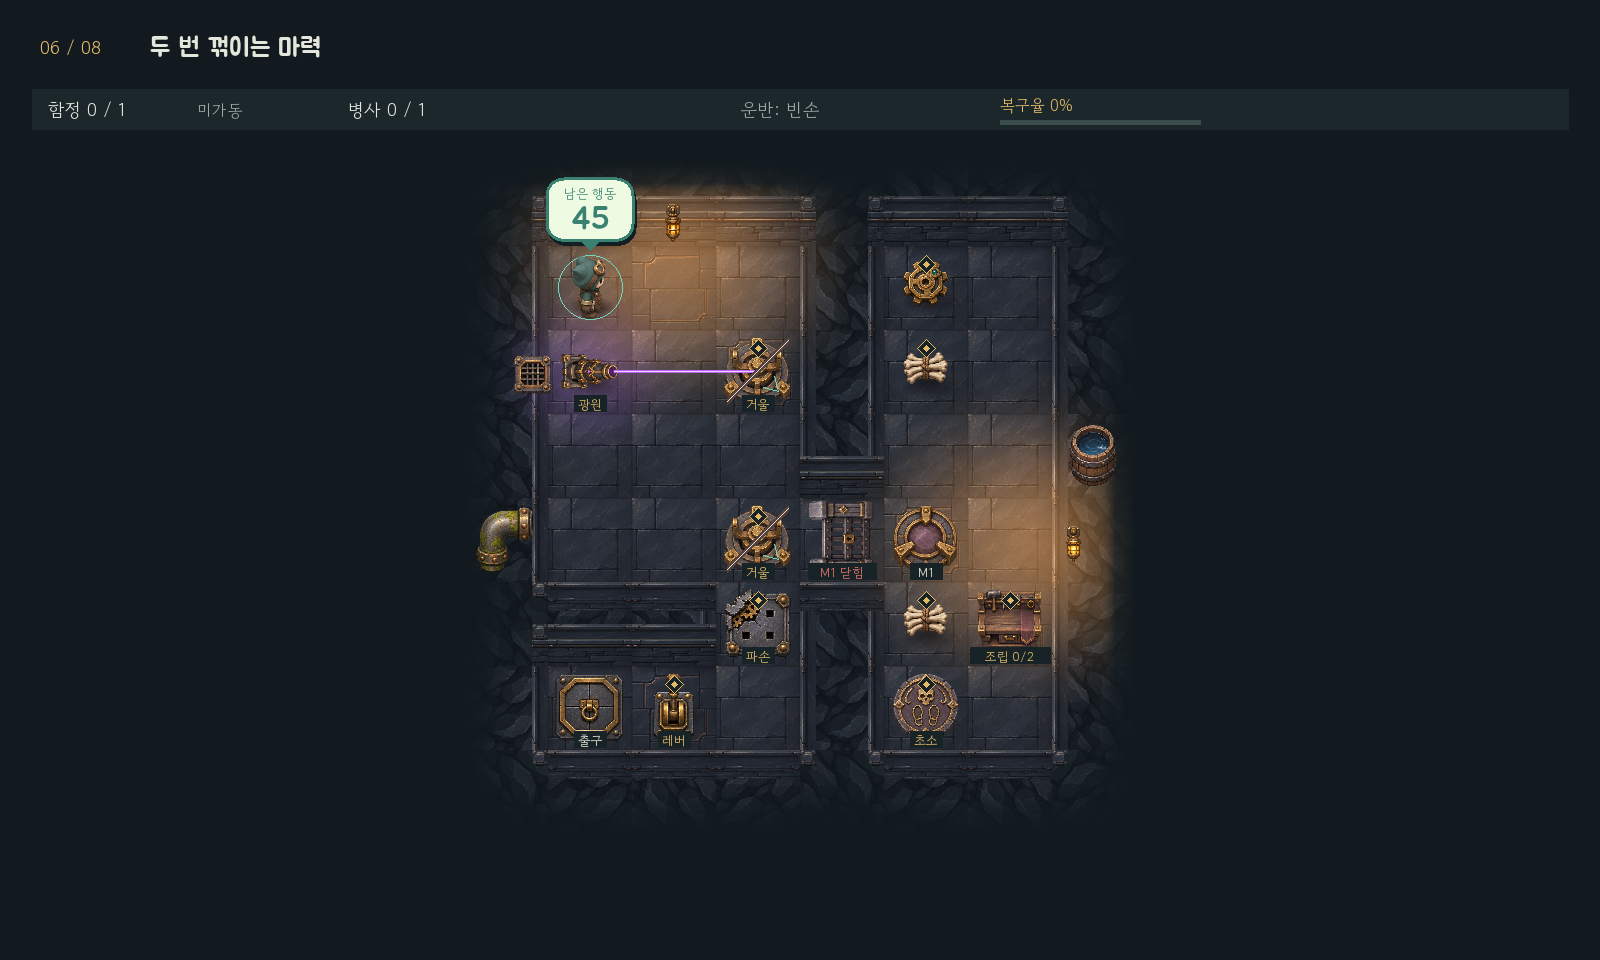
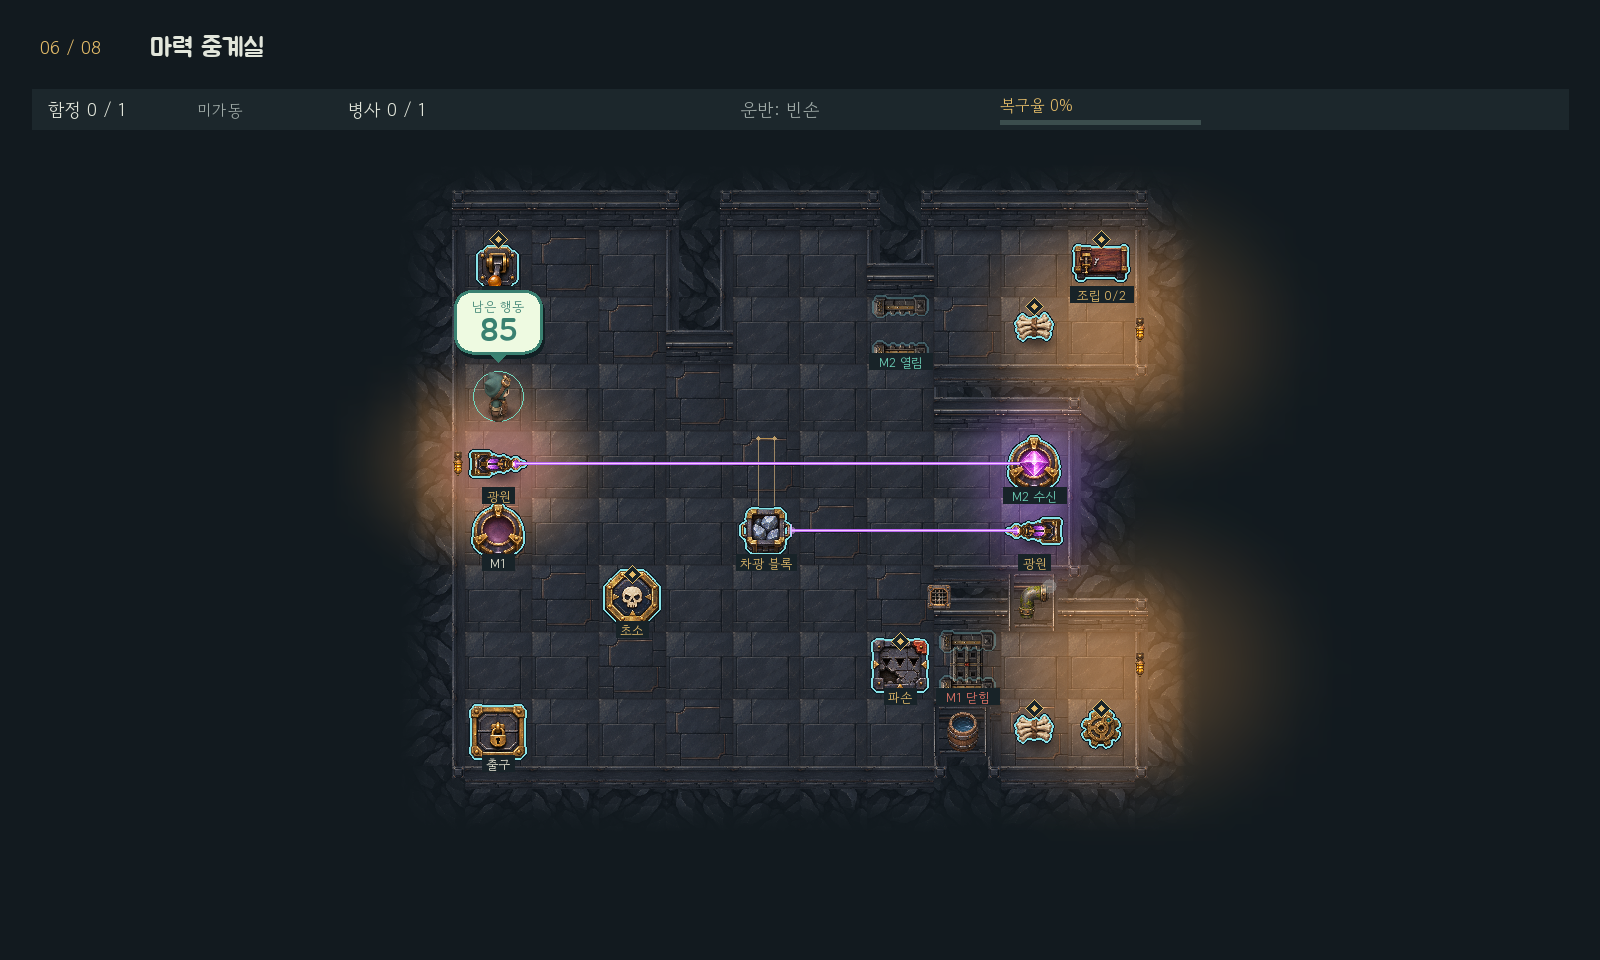
docs: 6번 방 배치도와 플레이 화면 갱신

Changed region(s): [[0.2188, 0.1875, 0.8125, 0.8438], [0.0938, 0.0312, 0.2188, 0.0625]]

diff --git a/tools/render_room_plans.py b/tools/render_room_plans.py
@@ -14,7 +14,7 @@ NOTES = (
     "북·남 서가의 재료를 꺼내고 두 입구의 함정을 고친다. 북쪽 안의 레버도 두 함정을 가동하지만, 그 자리에서 가동하면 돌아올 통로를 잃는다. 출구 근처 레버로 봉쇄할 길을 살펴야 한다.",
     "간수 통로의 잔해를 P1에 밀어 첫 감방을 연다. 그 안의 뼈를 감방 입구 앞 P2에 놓고, 두 번째 뼈는 서쪽 벽 앞 P3에 둔다. 안쪽 무기고에 가려면 P2와 P3을 함께 열어 둬야 한다. 부품을 꺼낸 뒤 남쪽에서 병사를 조립해 동쪽 끝 초소를 채우고, 하단 복도에서 레버를 당긴 뒤 출구로 나간다.",
     "이동 거울을 방향키로 수신기 열에 맞추고 옆 칸에서 아래로 돌린다. 광로를 막는 잔해를 옆으로 밀어낸다. C1 투입구로 뼈를 보내 C1 배출구의 발판으로 남쪽 집수실을 개방한다. 집수실의 뼈를 빼낸 뒤 발판의 뼈를 회수한다.",
-    "중앙의 차광 블록이 좌우 두 칸을 오간다. 오른쪽 광로를 비우면 남쪽 M1 보관실에서 부품과 뼈를 꺼낼 수 있다. 뼈를 넓은 중앙 홀에 잠시 내려놓고 반대편에서 블록을 밀어 북쪽 M2 작업실을 연다. 북쪽 작업대에서 두 뼈를 조립해 서쪽 초소를 채우고 남쪽 통로의 함정을 가동한다.",
+    "서쪽과 동쪽에서 두 줄의 빛이 중앙 홀을 가로지른다. 중앙 레일에서 블록을 위로 밀면 아래쪽 광로가 열려 남동쪽 M1 보관실에 들어갈 수 있다. 뼈를 홀에 잠시 놓고 블록을 아래로 밀어 북동쪽 M2 작업실을 연다. 병사를 중계실 아래쪽 초소에 배치한 뒤 북서쪽 레버를 당기고 남서쪽 출구로 돌아간다.",
     "첫 기록석을 밟고 위, 아래, 위를 기록한다. 세 걸음을 마친 인부가 발판에 멈춰 첫 문을 유지한다. 안쪽 부품을 발판에 올려 해골을 회수한 뒤 초소와 함정을 복구한다. 두 번째 기록석에서는 위로 두 걸음을 기록하면 인부가 금고 쪽 발판에 멈춘다.",
     "거울을 아래로 돌리고 차광 블록을 옆으로 밀어 동쪽 제어실을 연다. 부품으로 함정을 설치한 뒤 거울을 위로 돌려 M2를 연다. 기록석을 밟고 위, 위, 오른쪽, 오른쪽을 기록한다. 인부가 마지막 발판에 서면 두 문이 모두 열려 안쪽 레버까지 갈 수 있다.",
 )
@@ -38,6 +38,7 @@ def main():
     for number, room in enumerate(rooms, 1):
         width, height = len(room["map"][0]), len(room["map"])
         cell, ox, oy = 42, 34, 60
+        track = {tuple(pos) for pos in room.get("rubble_track", [])}
         svg = [f'<svg xmlns="http://www.w3.org/2000/svg" width="{width*cell+68}" height="{height*cell+90}" viewBox="0 0 {width*cell+68} {height*cell+90}">',
                '<rect width="100%" height="100%" fill="#151d23"/>',
                '<g font-family="Malgun Gothic, sans-serif" fill="#eff3f5">',
@@ -48,6 +49,8 @@ def main():
             svg.append(f'<text x="22" y="{oy+y*cell+26}" text-anchor="middle" font-size="11">{y}</text>')
             for x, glyph in enumerate(row):
                 color = "#29333e" if glyph == "#" else "#46555e" if glyph == "." else "#326d68"
+                if (x, y) in track:
+                    color = "#88643e"
                 svg.append(f'<rect x="{ox+x*cell}" y="{oy+y*cell}" width="40" height="40" rx="3" fill="{color}"/>')
                 if glyph not in "#.":
                     svg.append(f'<text x="{ox+x*cell+20}" y="{oy+y*cell+27}" text-anchor="middle" font-size="22">{glyph}</text>')

diff --git a/README.md b/README.md
@@ -33,11 +33,11 @@
 
 거울은 **90도씩 네 방향**으로 회전합니다. 빛은 들어오는 쪽과 관계없이 청록색 화살표가 가리키는 방향으로 나갑니다. 수신되면 보라색 발광과 `수신 완료` 표시가 켜집니다.
 
-수문·수위 기믹을 제거했습니다. 5번에서 이동 거울과 차광 블록을 배웁니다. 6번에서는 블록을 좌우로 밀어 두 수신기와 연결문을 번갈아 작동시킵니다. 8번에서는 차광 블록과 거울로 길을 연 뒤, 인부와 발걸음을 맞춰 두 문을 건넙니다. 잔해는 0.28초 동안 캐릭터와 함께 움직이고, 발판 턱을 오른 뒤 눌립니다. [현재 배치](docs/방크기조정.md) · [해골 인부 개선 제안](docs/해골인부개선안.md).
+수문·수위 기믹을 제거했습니다. 5번에서 이동 거울과 차광 블록을 배웁니다. 6번에서는 중앙 레일의 블록을 위아래로 밀어 동서로 뻗은 두 광로를 전환합니다. 8번에서는 차광 블록과 거울로 길을 연 뒤, 인부와 발걸음을 맞춰 두 문을 건넙니다. 잔해는 0.28초 동안 캐릭터와 함께 움직이고, 발판 턱을 오른 뒤 눌립니다. [현재 배치](docs/방크기조정.md) · [해골 인부 개선 제안](docs/해골인부개선안.md).
 
 ## 2026-11-16 방 배치와 행동 제한 조정
 
-방마다 장소의 역할에 맞춰 작업 구역을 나눴습니다. 지하 감옥은 무기고 앞의 감방 문 두 개를 함께 열어 둬야 합니다. 중계실은 작업대로 재료를 운반하는 도중 전력을 전환합니다. 보물창고는 두 개의 시간제 문을 건너고 그사이의 보관실에서 해골을 회수합니다. 왕좌실은 함정을 설치한 뒤, 해골 인부에게 방향을 기록해 두 문을 연달아 건넙니다. [현재 배치와 방별 행동 제한](docs/방크기조정.md)을 확인하세요. 아래 스크린샷은 제작 당시 기록입니다.
+방마다 장소의 역할에 맞춰 작업 구역을 나눴습니다. 지하 감옥은 무기고 앞의 감방 문 두 개를 함께 열어 둬야 합니다. 중계실 양 끝의 광원을 중앙 레일로 전환해 북동쪽 작업실과 남동쪽 보관실을 번갈아 엽니다. 레버는 북서쪽, 출구는 남서쪽에 있습니다. 보물창고는 두 개의 시간제 문을 건너고 그사이의 보관실에서 해골을 회수합니다. 왕좌실은 함정을 설치한 뒤, 해골 인부에게 방향을 기록해 두 문을 연달아 건넙니다. [현재 배치와 방별 행동 제한](docs/방크기조정.md)을 확인하세요. 아래 스크린샷은 제작 당시 기록입니다.
 
 작은 방은 화면 여유에 맞춰 자동 확대합니다. 위 축소 직후 화면보다 6×6은 약 39%, 7×7은 25%, 8×8은 약 13% 크게 표시하며 10×10은 기존 크기를 유지합니다. 1번은 왼쪽 튜토리얼과 벽이 겹치지 않게 게임판을 오른쪽으로 옮겼습니다. [확대한 1번 방](docs/screenshots/room-zoom/stage-01.png), [7×7 방](docs/screenshots/room-zoom/stage-02.png), [8×8 방](docs/screenshots/room-zoom/stage-03.png)을 확인하세요. 클릭 좌표와 장치 안내도 같은 확대 비율을 사용합니다.
 
@@ -69,7 +69,7 @@
 | 3. 봉인된 마력 서고 | [밝은 석재와 수정 조명](docs/screenshots/topdown-v2/stage-03.png) |
 | 4. 지하 감옥 | [강철색 석재와 발판](docs/screenshots/topdown-v2/stage-04.png) |
 | 5. 이끼 배수로 | [이끼 낀 벽과 뼈 투입구](docs/screenshots/topdown-v2/stage-05.png) |
-| 6. 마력 중계실 | [남청색 철판과 구리 장식](docs/screenshots/topdown-v2/stage-06.png) |
+| 6. 마력 중계실 | [동서 광로와 중앙 차광 레일](docs/screenshots/topdown-v2/stage-06.png) |
 | 7. 왕실 보물창고 | [청록 석재와 금속 현수막](docs/screenshots/topdown-v2/stage-07.png) |
 | 8. 마왕의 왕좌실 | [붉은 석재와 화로](docs/screenshots/topdown-v2/stage-08.png) · [마력 연결](docs/screenshots/topdown-v2/stage-08-powered.png) |
 

diff --git a/docs/방크기조정.md b/docs/방크기조정.md
@@ -9,7 +9,7 @@
 | 3 | 8×8 | 26 | 55 | 59 | 4 |
 | 4 | 12×11 | 39 | 74 | 86 | 12 |
 | 5 | 10×9 | 39 | 56 | 69 | 13 |
-| 6 | 12×10 | 62 | 77 | 85 | 8 |
+| 6 | 12×10 | 68 | 77 | 85 | 8 |
 | 7 | 11×9 | 37 | 43 | 51 | 8 |
 | 8 | 12×9 | 39 | 43 | 51 | 8 |
 
@@ -49,7 +49,7 @@
 
 ### 6번 — 마력 중계실
 
-중앙의 차광 블록이 좌우 두 칸을 오간다. 오른쪽 광로를 비우면 남쪽 M1 보관실에서 부품과 뼈를 꺼낼 수 있다. 뼈를 넓은 중앙 홀에 잠시 내려놓고 반대편에서 블록을 밀어 북쪽 M2 작업실을 연다. 북쪽 작업대에서 두 뼈를 조립해 서쪽 초소를 채우고 남쪽 통로의 함정을 가동한다.
+서쪽과 동쪽에서 두 줄의 빛이 중앙 홀을 가로지른다. 중앙 레일에서 블록을 위로 밀면 아래쪽 광로가 열려 남동쪽 M1 보관실에 들어갈 수 있다. 뼈를 홀에 잠시 놓고 블록을 아래로 밀어 북동쪽 M2 작업실을 연다. 병사를 중계실 아래쪽 초소에 배치한 뒤 북서쪽 레버를 당기고 남서쪽 출구로 돌아간다.
 
 ![좌표 배치도](screenshots/compact-rooms/stage-06-plan.svg)
 
